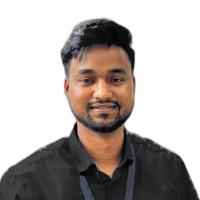
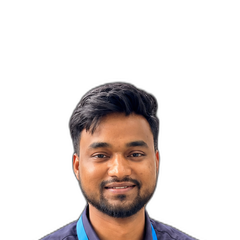
feat: integrate new high-res portrait, remove top hero gap, configure 3 Oxima projects (Java backend marked live), and update address to Lohaghat, Uttarakhand

diff --git a/src/components/Work.jsx b/src/components/Work.jsx
@@ -12,24 +12,66 @@ import projectLanding from '../images/project_landing_page.png';
 
 const PROJECTS_DATA = [
   {
-    id: 'oxima',
-    title: 'Oxima: Real-Time Fleet & Ride-Hailing Platform',
-    category: 'fullstack',
-    categoryLabel: 'Full-Stack & Distributed',
-    badge: 'Flagship ⭐',
-    desc: 'Distributed nationwide ride-hailing architecture with customer & driver portals, live GPS tracking, and OSRM turn-by-turn road navigation. Engineered sub-50ms driver matching via Redis Geospatial indexing and decoupled event queuing via Apache Kafka.',
+    id: 'oxima-backend-java',
+    title: 'Oxima: Distributed Ride-Hailing Backend Microservice (Java 17 & Spring Boot)',
+    category: 'backend',
+    categoryLabel: 'Java Microservices & Cloud',
+    badge: 'Live Backend ⭐',
+    liveBadgeLabel: 'LIVE BACKEND',
+    desc: 'High-throughput, production distributed backend for ride-hailing services. Engineered with Java 17 and Spring Boot 3, featuring Redis Geospatial (GEOADD / GEORADIUS) driver matching, Apache Kafka decoupled event streaming, WebSockets for real-time driver telematics, and PostgreSQL persistence in Docker.',
     highlights: [
-      'Sub-50ms driver-rider proximity matching with Redis GEO commands',
-      'Apache Kafka event streaming with partition keys for ride events',
-      'OpenStreetMap OSRM road routing engine integration',
-      '20-meter proximity PIN-lock ride initiation security',
-      'Zustand state management & responsive mobile-first Tailwind UI'
+      'Sub-50ms driver-passenger geospatial proximity indexing using Redis GEO commands',
+      'Distributed event streaming via Apache Kafka for ride lifecycle and status events',
+      'Bi-directional low-latency driver GPS telemetry with Spring WebSockets / STOMP',
+      'Multi-container containerized architecture with Docker Compose and PostgreSQL',
+      'Production backend service actively handling client requests'
     ],
-    tech: ['React 18', 'Node.js', 'Express', 'Redis Spatial', 'Kafka', 'WebSockets', 'Tailwind CSS'],
-    liveUrl: 'https://oximacustomer.netlify.app/',
-    githubUrl: 'https://github.com/Vivek-27/oxima-ride-hailing',
+    tech: ['Java 17', 'Spring Boot 3', 'Redis Geospatial', 'Apache Kafka', 'WebSockets', 'PostgreSQL', 'Docker'],
+    liveUrl: null,
+    githubUrl: 'https://github.com/Vivek-27/oxima-backend-java',
     image: null,
     isLive: true
+  },
+  {
+    id: 'oxima-frontend-web',
+    title: 'Oxima: Dual Ride-Hailing Client Portals (React 18 & Zustand)',
+    category: 'fullstack',
+    categoryLabel: 'Frontend Web & Maps',
+    badge: 'React & Maps 🗺',
+    liveBadgeLabel: 'LIVE WEB APP',
+    desc: 'High-performance responsive web portals for riders (front-customer) and drivers (front-driver). Integrates OpenStreetMap with OSRM road routing engine, live animated vehicle tracking, Zustand global state management, and OTP-based ride verification.',
+    highlights: [
+      'Dual client portals: dedicated rider booking interface and driver ride management console',
+      'OpenStreetMap & OSRM routing engine with real-time road geometry and dynamic ETA computation',
+      'Smooth vehicle trajectory animation and 20-meter proximity PIN-verification security',
+      'Zustand lightweight reactive state management eliminating unnecessary re-renders',
+      'Fully responsive, mobile-first design styled with modern Tailwind CSS'
+    ],
+    tech: ['React 18', 'Zustand', 'Tailwind CSS', 'OSRM Routing', 'OpenStreetMap', 'WebSockets'],
+    liveUrl: 'https://oximacustomer.netlify.app/',
+    githubUrl: 'https://github.com/Vivek-27/oxima-frontend-web',
+    image: null,
+    isLive: true
+  },
+  {
+    id: 'oxima-ride-hailing-mern',
+    title: 'Oxima: Real-Time Fleet & Ride-Hailing Platform (MERN Stack)',
+    category: 'fullstack',
+    categoryLabel: 'Full-Stack MERN Architecture',
+    badge: 'MERN Stack 🚖',
+    liveBadgeLabel: null,
+    desc: 'Full-stack JavaScript ride-hailing architecture built with Node.js, Express, MongoDB, and React. Demonstrates end-to-end socket event synchronization, Redis caching, driver dispatch algorithms, and JWT authentication.',
+    highlights: [
+      'End-to-end JavaScript architecture with Node.js, Express, and MongoDB',
+      'Real-time bi-directional ride status updates and chat via Socket.IO',
+      'Geospatial driver proximity queries and trip pricing calculation engine',
+      'JWT token authentication with role-based access control (Riders / Drivers)'
+    ],
+    tech: ['React', 'Node.js', 'Express', 'MongoDB', 'Redis', 'Socket.IO'],
+    liveUrl: null,
+    githubUrl: 'https://github.com/Vivek-27/oxima-ride-hailing',
+    image: null,
+    isLive: false
   },
   {
     id: 'aws-ticketdesk',
@@ -367,7 +409,7 @@ const Work = () => {
                     </div>
                     {project.isLive && (
                       <span className="live-status-pill">
-                        <span className="live-dot"></span> LIVE APP
+                        <span className="live-dot"></span> {project.liveBadgeLabel || 'LIVE APP'}
                       </span>
                     )}
                   </div>
@@ -417,6 +459,11 @@ const Work = () => {
                       >
                         Visit App ↗
                       </a>
+                    )}
+                    {project.isLive && !project.liveUrl && (
+                      <span className="btn-card-live-service">
+                        <span className="live-dot"></span> Live Microservice
+                      </span>
                     )}
                     <a
                       href={project.githubUrl}

diff --git a/src/components/Home.jsx b/src/components/Home.jsx
@@ -19,13 +19,24 @@ const ROLES = [
 
 const FEATURED_PROJECTS = [
   {
-    title: 'Oxima Ride-Hailing Platform',
-    category: 'Distributed Systems & Real-Time',
-    desc: 'High-throughput ride-matching platform featuring Redis Geospatial indexing, Apache Kafka event streaming, and OpenStreetMap road routing with sub-50ms proximity dispatch.',
-    tech: ['React 18', 'Node.js', 'Redis Spatial', 'Kafka', 'WebSockets', 'Tailwind'],
-    github: 'https://github.com/Vivek-27/oxima-ride-hailing',
+    title: 'Oxima: Distributed Ride-Hailing Backend',
+    category: 'Java 17 & Spring Boot (Live Backend)',
+    desc: 'Production live backend microservice powered by Java 17, Spring Boot 3, Redis Geospatial (GEOADD / GEORADIUS) driver matching, Apache Kafka event streaming, and WebSocket driver telematics.',
+    tech: ['Java 17', 'Spring Boot', 'Redis Spatial', 'Kafka', 'WebSockets', 'PostgreSQL'],
+    github: 'https://github.com/Vivek-27/oxima-backend-java',
+    live: null,
+    badge: 'Live Backend ⭐',
+    isLiveBackend: true
+  },
+  {
+    title: 'Oxima: Ride-Hailing Client Portals',
+    category: 'Frontend Web & Interactive Maps',
+    desc: 'Dual client portals for riders and drivers featuring OpenStreetMap OSRM road routing engine, live animated driver location tracking, Zustand reactive state management, and mobile-first Tailwind design.',
+    tech: ['React 18', 'Zustand', 'Tailwind CSS', 'OSRM Routing', 'WebSockets'],
+    github: 'https://github.com/Vivek-27/oxima-frontend-web',
     live: 'https://oximacustomer.netlify.app/',
-    badge: 'Flagship'
+    badge: 'Live Web Demo 🌐',
+    isLiveBackend: false
   },
   {
     title: 'AWS ECS Fargate TicketDesk',
@@ -34,7 +45,8 @@ const FEATURED_PROJECTS = [
     tech: ['AWS ECS Fargate', 'Terraform', 'PostgreSQL', 'Docker', 'GitHub Actions'],
     github: 'https://github.com/Vivek-27/poc-aws-deployment-ticketdesk',
     live: null,
-    badge: 'AWS IaC'
+    badge: 'AWS IaC ☁',
+    isLiveBackend: false
   },
   {
     title: 'Generative AI & LangChain Toolkit',
@@ -43,7 +55,8 @@ const FEATURED_PROJECTS = [
     tech: ['Python', 'LangChain', 'LCEL', 'OpenAI API', 'ChromaDB', 'FastAPI'],
     github: 'https://github.com/Vivek-27/generative-ai-langchain-toolkit',
     live: null,
-    badge: 'GenAI'
+    badge: 'GenAI 🤖',
+    isLiveBackend: false
   }
 ];
 
@@ -267,6 +280,11 @@ const Home = () => {
                     Live Demo &rarr;
                   </a>
                 )}
+                {proj.isLiveBackend && (
+                  <span className="card-badge-live-service">
+                    <span className="live-dot-pulse"></span> Live Microservice
+                  </span>
+                )}
                 <a
                   href={proj.github}
                   target="_blank"
@@ -322,7 +340,7 @@ const Home = () => {
 
             <div className="footer-meta-col">
               <span className="footer-meta-label">LOCAL TIME</span>
-              <span className="footer-meta-val">{currentTime || 'New Delhi, India'}</span>
+              <span className="footer-meta-val">{currentTime || 'Lohaghat, Uttarakhand'}</span>
             </div>
 
             <div className="footer-meta-col">

diff --git a/src/components/home.css b/src/components/home.css
@@ -52,9 +52,9 @@
 
 /* Hero Section */
 .hero-section {
-  min-height: 90vh;
+  min-height: 85vh;
   width: 100%;
-  padding: 60px 6vw 40px 6vw;
+  padding: 0 6vw 24px 6vw;
   display: flex;
   flex-direction: column;
   justify-content: space-between;
@@ -64,10 +64,10 @@
 
 .hero-container {
   display: grid;
-  grid-template-columns: 1.15fr 0.85fr;
+  grid-template-columns: 1.05fr 0.95fr;
   align-items: center;
-  gap: 40px;
-  max-width: 1360px;
+  gap: 36px;
+  max-width: 1380px;
   margin: 0 auto;
   width: 100%;
 }
@@ -232,7 +232,7 @@
 .hero-photo-wrapper {
   position: relative;
   width: 100%;
-  max-width: 440px;
+  max-width: 580px;
   display: flex;
   align-items: flex-end;
   justify-content: center;
@@ -241,10 +241,10 @@
 .hero-portrait {
   width: 100%;
   height: auto;
-  max-height: 560px;
+  max-height: 720px;
   object-fit: contain;
   z-index: 2;
-  filter: drop-shadow(0 15px 25px rgba(0, 0, 0, 0.15));
+  filter: drop-shadow(0 20px 35px rgba(0, 0, 0, 0.16));
 }
 
 .photo-backdrop-glow {
@@ -559,6 +559,28 @@
 
 .card-btn-live:hover {
   background: #0f766e;
+}
+
+.card-badge-live-service {
+  display: inline-flex;
+  align-items: center;
+  gap: 6px;
+  background: rgba(16, 185, 129, 0.12);
+  color: #059669;
+  border: 1px solid rgba(16, 185, 129, 0.3);
+  padding: 8px 14px;
+  border-radius: 24px;
+  font-size: 12.5px;
+  font-weight: 600;
+}
+
+.live-dot-pulse {
+  width: 7px;
+  height: 7px;
+  background: #059669;
+  border-radius: 50%;
+  box-shadow: 0 0 8px rgba(16, 185, 129, 0.7);
+  animation: pulseDot 2s infinite ease-in-out;
 }
 
 .card-btn-code {

diff --git a/src/components/About.jsx b/src/components/About.jsx
@@ -188,7 +188,7 @@ const About = () => {
               </div>
               <ul className="timeline-bullets">
                 <li>Rigorous coursework in Data Structures &amp; Algorithms, Operating Systems, Database Management Systems, and Distributed Computing.</li>
-                <li>Published open-source projects including real-time ride hailing (Oxima) and facial anti-spoofing microservices (PAD).</li>
+                <li>Architected open-source distributed systems including the Oxima real-time ride-hailing suite (Java 17 microservice backend &amp; React 18 client portals) and facial anti-spoofing microservices (PAD).</li>
               </ul>
             </div>
           </div>

diff --git a/public/resumes/Vivek_Kumar_Java_Cloud_GenAI_Resume.html b/public/resumes/Vivek_Kumar_Java_Cloud_GenAI_Resume.html
@@ -176,7 +176,7 @@
     <h1>Vivek Kumar</h1>
     <div class="subtitle">Backend Software Engineer (Java, Spring Boot, AWS & GenAI)</div>
     <div class="contact-info">
-      <span>&#128205; Noida, Uttar Pradesh, India</span>
+      <span>&#128205; Lohaghat, Uttarakhand, India</span>
       <span>&#128222; +91 8439872415</span>
       <span>&#9993; <a href="mailto:vivekvb@protonmail.com">vivekvb@protonmail.com</a></span>
       <span>&#128279; <a href="https://linkedin.com/in/vivek-fullstack" target="_blank">linkedin.com/in/vivek-fullstack</a></span>

diff --git a/public/resumes/Vivek_Kumar_Data_Engineering_GenAI_Resume.html b/public/resumes/Vivek_Kumar_Data_Engineering_GenAI_Resume.html
@@ -176,7 +176,7 @@
     <h1>Vivek Kumar</h1>
     <div class="subtitle">Data Engineer (Big Data, AWS, PySpark & GenAI Analytics)</div>
     <div class="contact-info">
-      <span>&#128205; Noida, Uttar Pradesh, India</span>
+      <span>&#128205; Lohaghat, Uttarakhand, India</span>
       <span>&#128222; +91 8439872415</span>
       <span>&#9993; <a href="mailto:vivekvb@protonmail.com">vivekvb@protonmail.com</a></span>
       <span>&#128279; <a href="https://linkedin.com/in/vivek-fullstack" target="_blank">linkedin.com/in/vivek-fullstack</a></span>

diff --git a/public/resumes/Vivek_Kumar_MERN_GenAI_Resume.html b/public/resumes/Vivek_Kumar_MERN_GenAI_Resume.html
@@ -176,7 +176,7 @@
     <h1>Vivek Kumar</h1>
     <div class="subtitle">Full-Stack Software Engineer (MERN & Generative AI)</div>
     <div class="contact-info">
-      <span>&#128205; Noida, Uttar Pradesh, India</span>
+      <span>&#128205; Lohaghat, Uttarakhand, India</span>
       <span>&#128222; +91 8439872415</span>
       <span>&#9993; <a href="mailto:vivekvb@protonmail.com">vivekvb@protonmail.com</a></span>
       <span>&#128279; <a href="https://linkedin.com/in/vivek-fullstack" target="_blank">linkedin.com/in/vivek-fullstack</a></span>

diff --git a/src/components/Contact.jsx b/src/components/Contact.jsx
@@ -102,7 +102,7 @@ const Contact = () => {
                   <div className="touchpoint-icon">📍</div>
                   <div className="touchpoint-info">
                     <span className="touchpoint-label">CURRENT LOCATION</span>
-                    <span className="touchpoint-val">Noida, Uttar Pradesh, India</span>
+                    <span className="touchpoint-val">Lohaghat, Uttarakhand, India</span>
                   </div>
                   <span className="touchpoint-badge">Remote / Hybrid</span>
                 </div>

diff --git a/src/components/work.css b/src/components/work.css
@@ -389,6 +389,19 @@
   transform: translateY(-1px);
 }
 
+.btn-card-live-service {
+  background: rgba(16, 185, 129, 0.12);
+  color: #059669;
+  border: 1px solid rgba(16, 185, 129, 0.3);
+  padding: 8px 14px;
+  border-radius: 20px;
+  font-size: 12.5px;
+  font-weight: 600;
+  display: inline-flex;
+  align-items: center;
+  gap: 6px;
+}
+
 .btn-card-github {
   color: #4b5563;
   font-size: 13px;

diff --git a/src/components/navbar.css b/src/components/navbar.css
@@ -12,7 +12,7 @@
   backdrop-filter: blur(16px);
   -webkit-backdrop-filter: blur(16px);
   border-bottom: 1px solid rgba(0, 0, 0, 0.08);
-  padding: 16px 6vw;
+  padding: 12px 6vw;
   transition: all 0.3s ease;
 }
 
